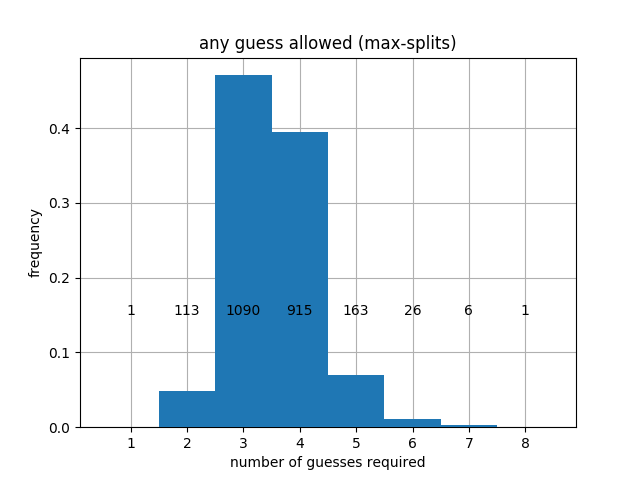
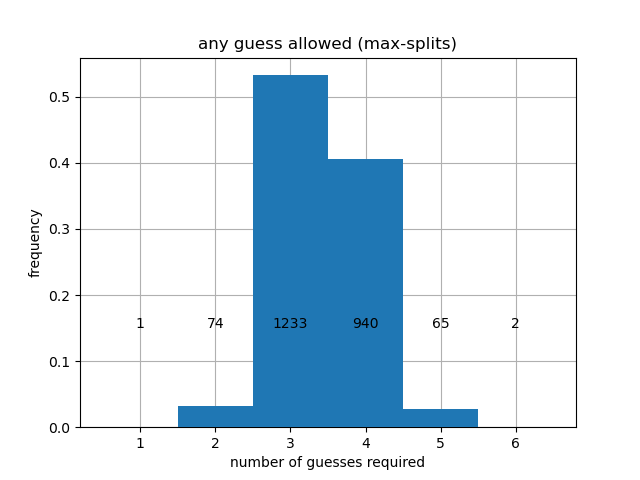
update figures for max-split and readme

diff --git a/README.md b/README.md
@@ -56,24 +56,23 @@ When prioritizing entropy, we get better average performance, but the worst-case
 | ![using any guess](figures/strat_using_any_guess_prioritize_splits.png)|![using only solution words as guesses](figures/strat_using_solutions_only_prioritize_splits.png)  | ![hard mode](figures/strat_using_hard_mode_prioritize_splits.png)
 |-|-|-|
 
-
- Here is a summary of the four different cases considered above:
+ Here is a summary of the different cases considered above.
 
 |Guesses allowed	| First guess	| Heuristic used	| Average Guesses	| # > 4 guesses |
 |-----------------|-------------|-----------------|-----------------|---------------|
-|All 5-letter words	| "RAISE"	| Max-size |	3.521	| 73 |
-|All 5-letter words	| "SOARE" |	Max-entropy	| 3.463	| 62 |
-|All 5-letter words	| "TRACE" |	Max-splits	| 3.5326 | 196 |
-|Only from solutions list	| "RAISE"	| Max-size	| 3.551	| 101 |
-|Only from solutions list	| "RAISE"	| Max-entropy |	3.495	| 93 |
+|All 5-letter words	| "RAISE"	| Max-size |	3.5214	| 73 |
+|All 5-letter words	| "SOARE" |	Max-entropy	| 3.4631	| 62 |
+|All 5-letter words	| "TRACE" |	Max-splits	| 3.4320 | 67 |
+|Only from solutions list	| "RAISE"	| Max-size	| 3.5508	| 101 |
+|Only from solutions list	| "RAISE"	| Max-entropy |	3.4950	| 93 |
 |Only from solutions list	| "TRACE"	| Max-splits |	3.4549	| 83 |
 |Hard mode	| "RAISE"	| Max-size	| 3.644	| 282 |
 |Hard mode	| "RAISE"	| Max-entropy |	3.600	| 266 |
 |Hard mode	| "TRACE"	| Max-splits |	3.534	| 217 |
 
-Depending on the heuristic used and which word list is used for guesses, the best word can be "RAISE", "SOARE" or "TRACE". Since "SOARE" is not one of the admissible solution words, it is impossible to win in one turn when using the max-entropy approach (using "RAISE" as a first word for max-entropy only produces a slight change in the result).
+We observe a fundamental trade-off: it is possible to guarantee that we always win in at most 5 guesses by using Max-size, but this leads to a greater average number of guesses. Using Max-entropy or Max-splits leads to a better average, but will sometimes take 6 guesses. In hard mode, it seems that every heuristic will take 8 moves in the worst case.
 
-Interestingly, the heuristic that has the best average number of guesses is to actually _restrict_ the number of words used for guessing! (using Max-split with only guess words from the solution list). This speaks to the fact that these are fundamentally greedy heuristics, so we can expect such anomalies when comparing performance.
+Depending on the heuristic used and which word list is used for guesses, the best word can be "RAISE", "SOARE" or "TRACE". Since "SOARE" is not one of the admissible solution words, it is impossible to win in one turn when using the max-entropy approach (using "RAISE" as a first word for max-entropy only produces a slight change in the result).
 
 # Adversarial Wordle
 
